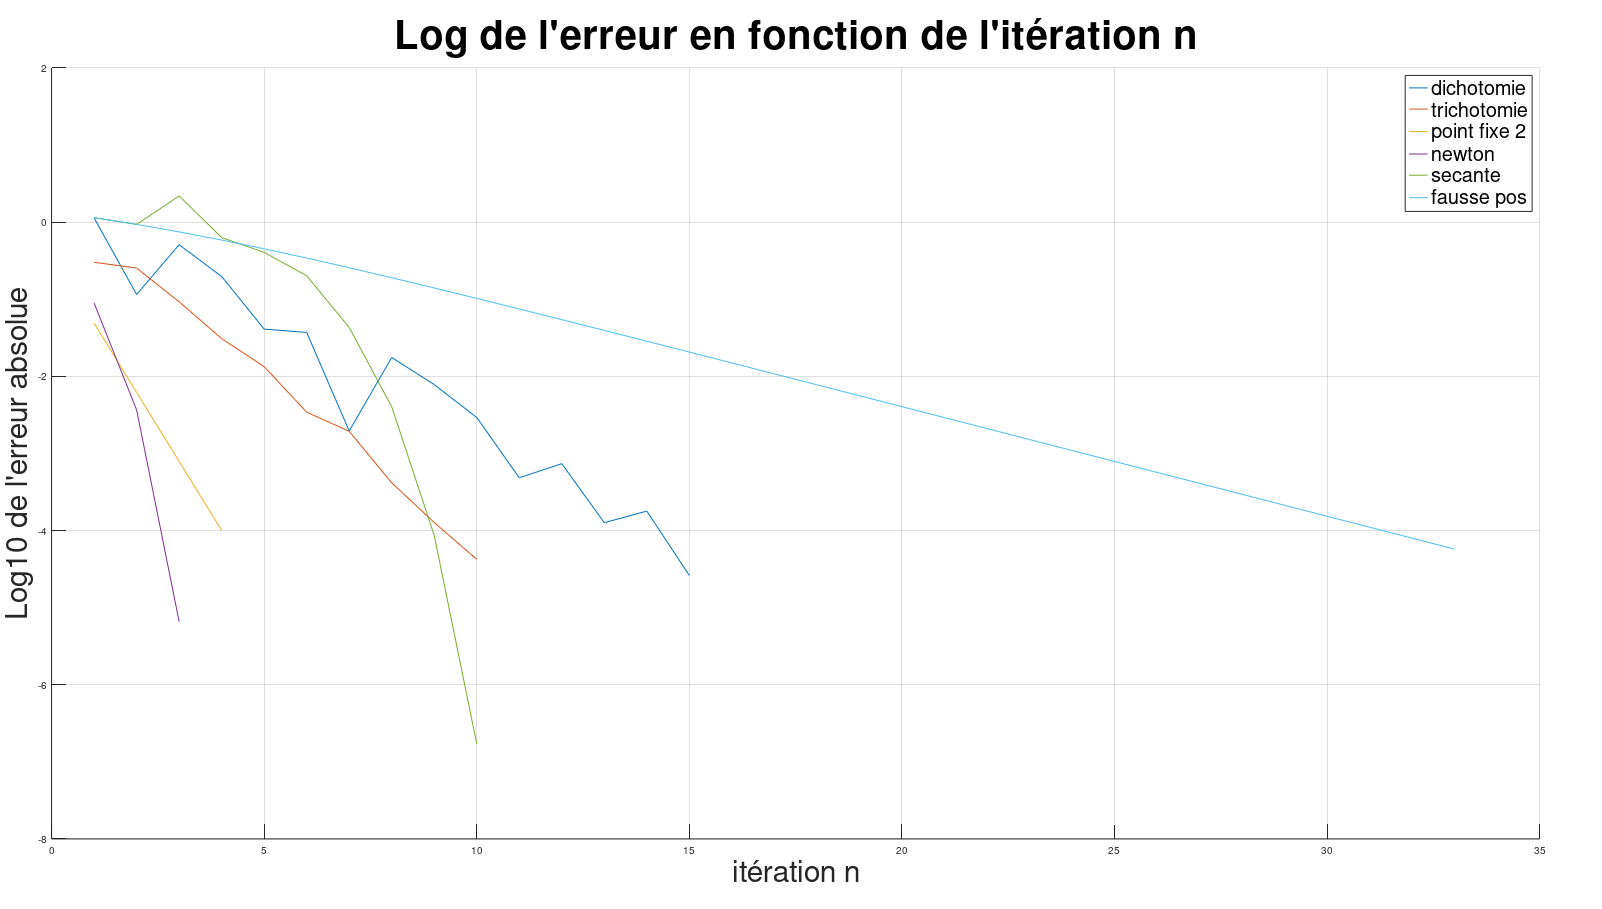
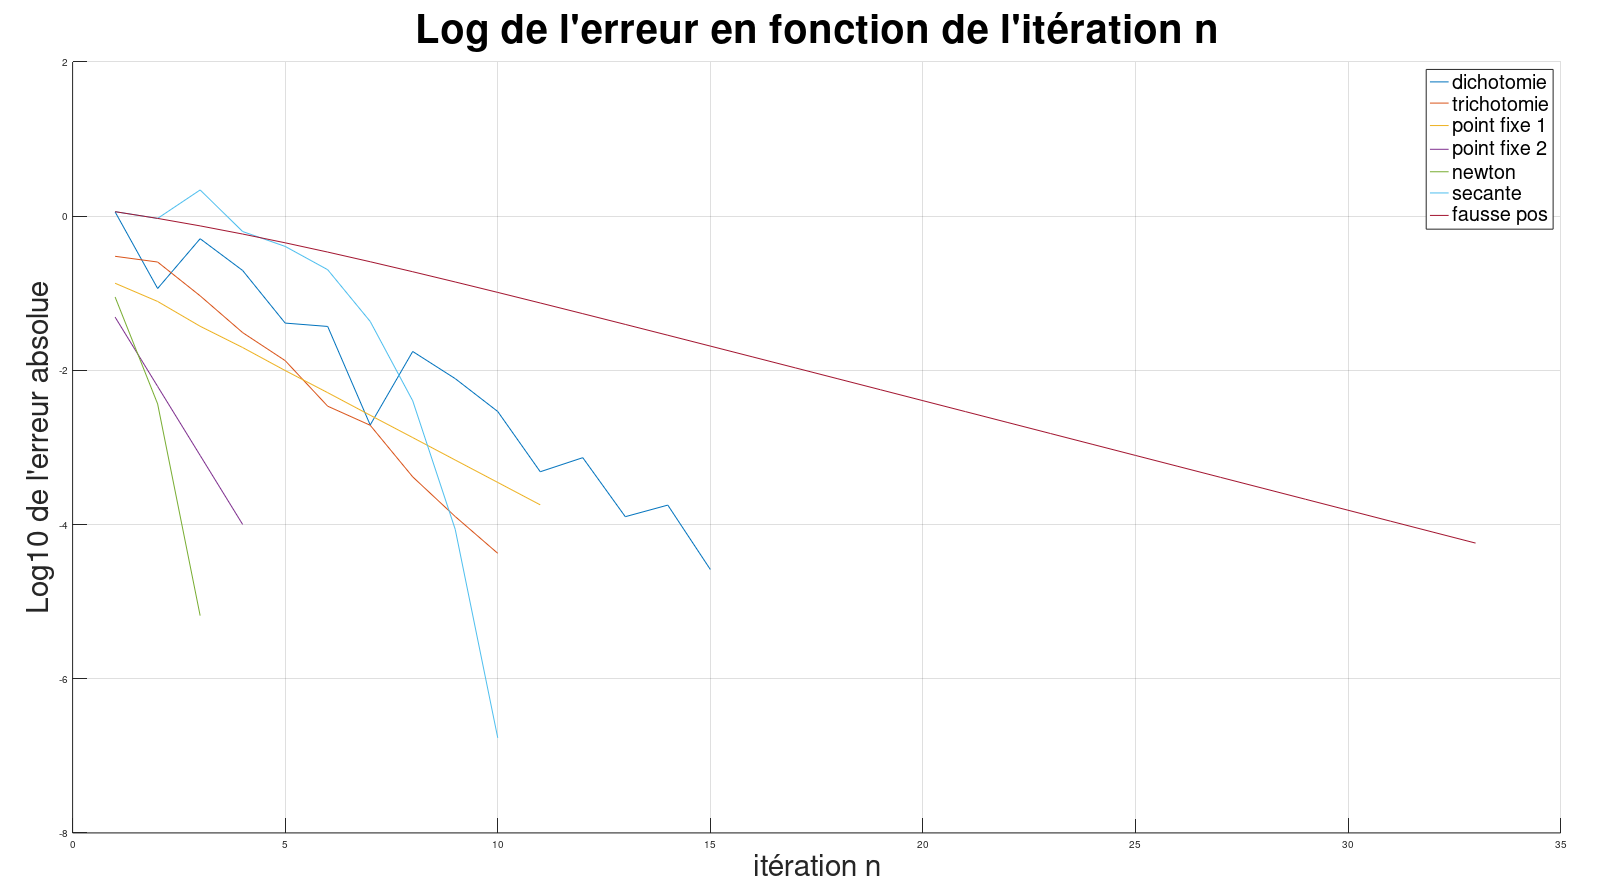
ajoute de pt fixe 1 pr le graphe

diff --git a/scriptPrincipal.m b/scriptPrincipal.m
@@ -196,8 +196,9 @@ if(DispGraph)
     endif
   endif
   if(FairePointFixe)
+    plot(1:length(errP1),log10(errP1),markers(failP1+1));
     plot(1:length(errP2),log10(errP2),markers(failP2+1));
-    legends = [ legends; 'point fixe 2'];
+    legends = [ legends; 'point fixe 1';'point fixe 2'];
   endif
   if(FaireNewton)
     plot(1:length(errN),log10(errN),markers(failN+1));
